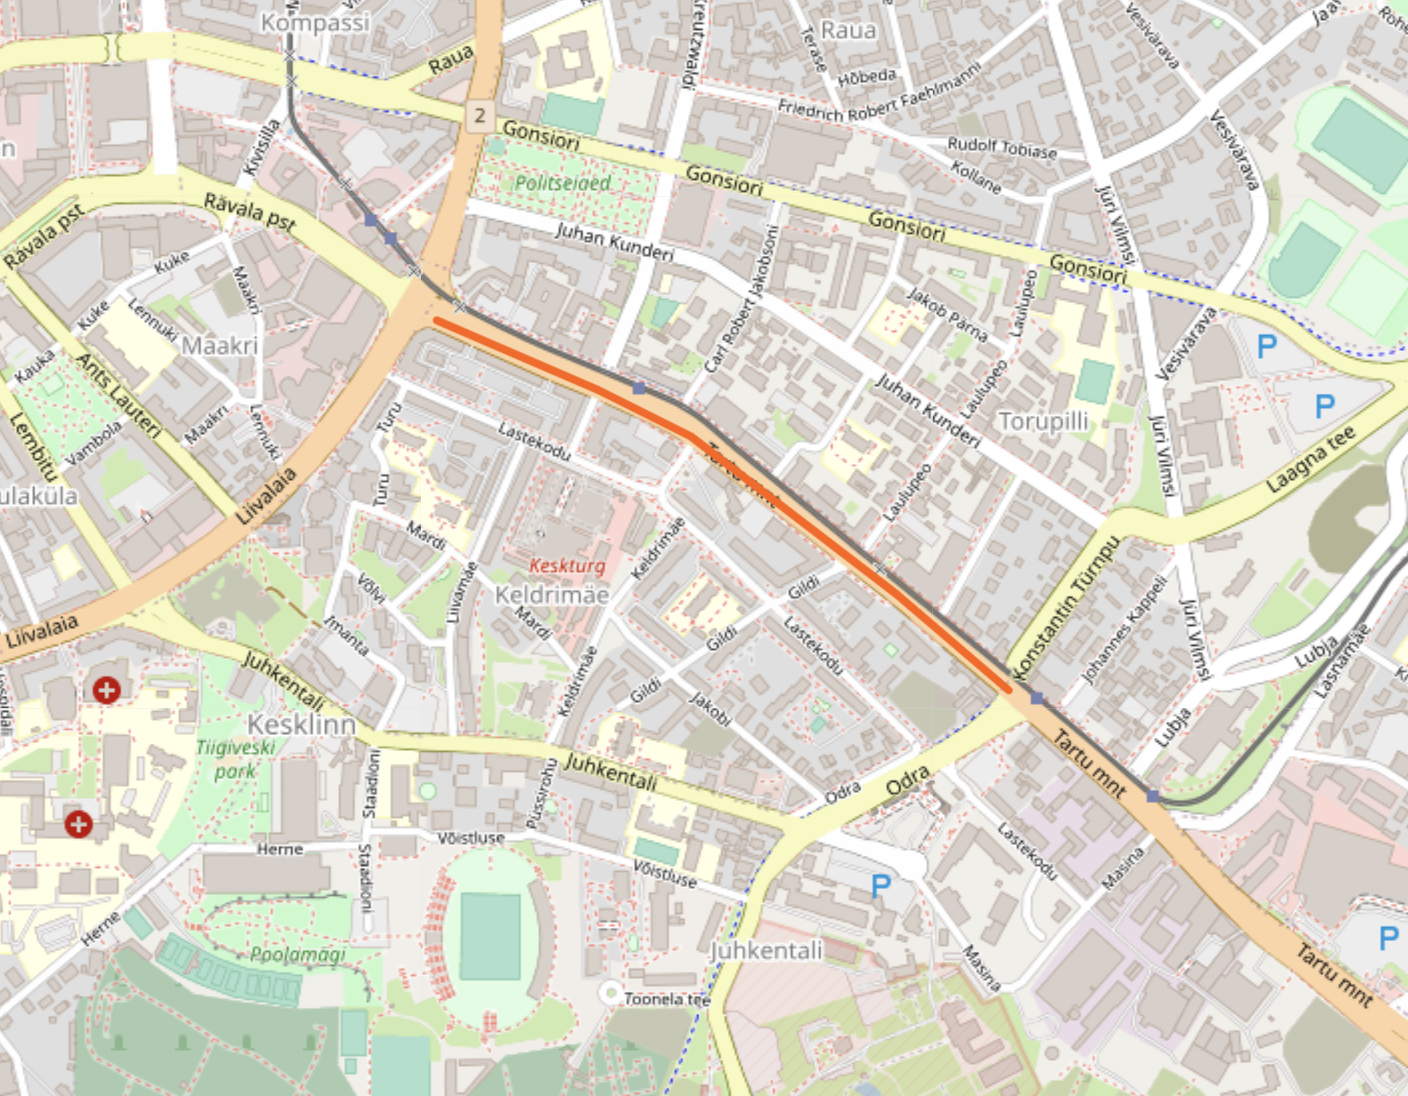
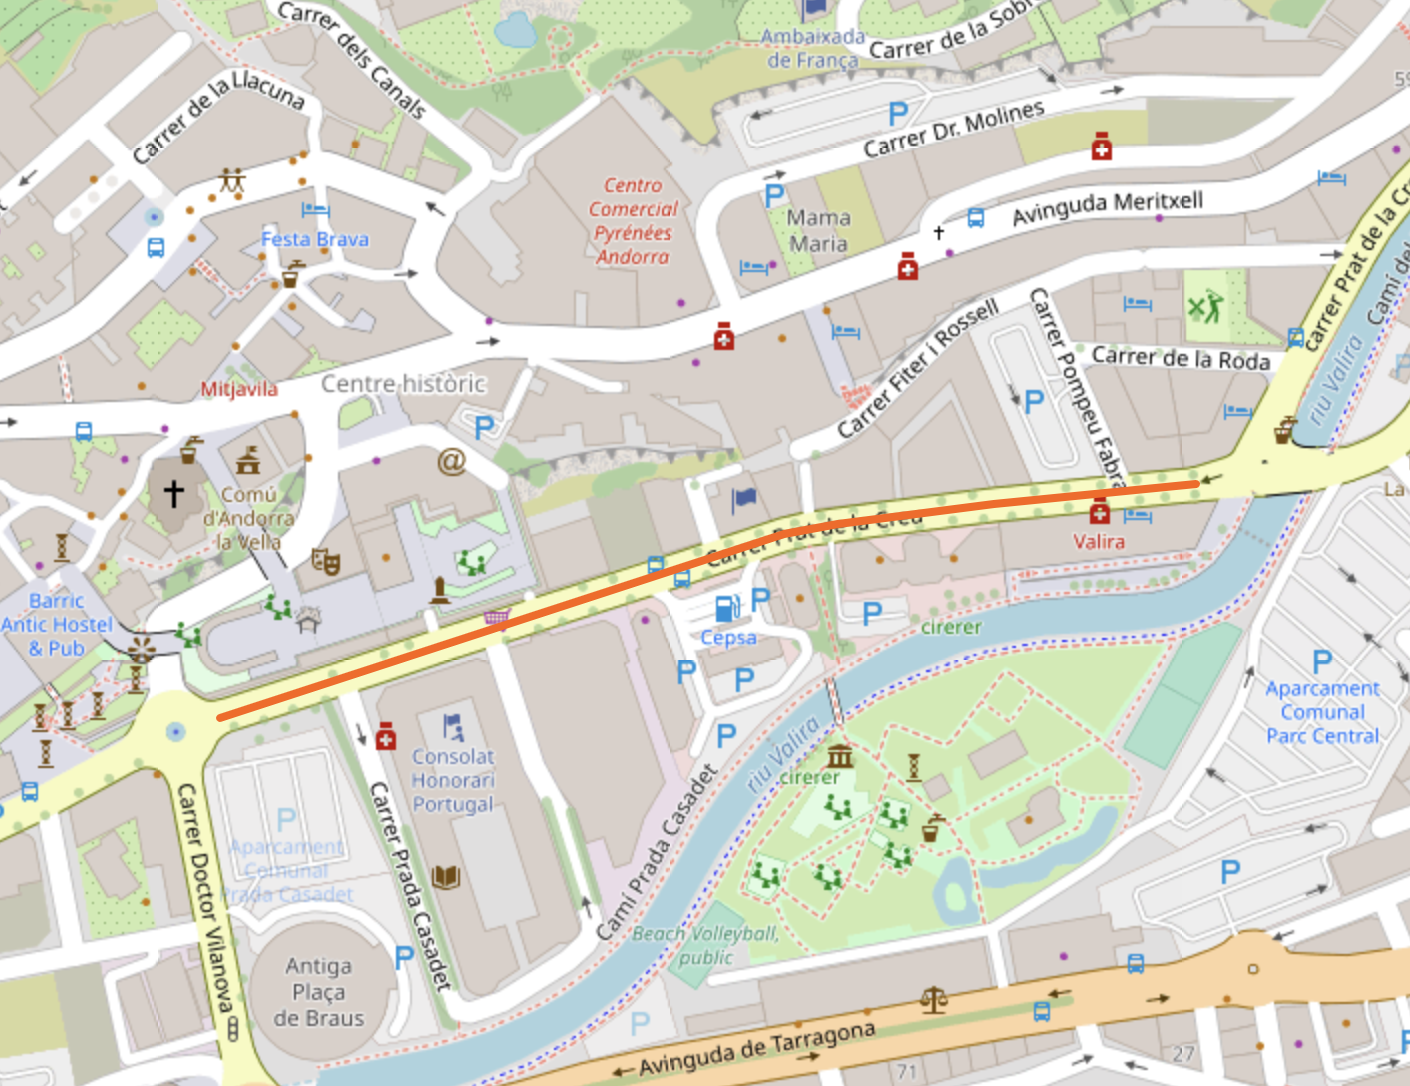
update screenshots

diff --git a/README.md b/README.md
@@ -20,7 +20,7 @@ This has similar interface to existing Valhalla tools and makes use of data stru
 3. Inside the container, start the server ```LD_LIBRARY_PATH=/usr/local/lib valhalla_service /valhalla_tiles/valhalla.json 1```
 4. Verify that Valhalla processed the traffic information correctly, by querying the Valhalla graph edge which we updated (or using the interactive demo in the next step):
 ```
-curl http://localhost:8002/locate --data '{"locations": [{"lat": 42.506709580728085, "lon": 1.523623466491699}], "verbose": true}' | jq
+curl http://localhost:8002/locate --data '{"locations": [{"lat": 42.506709, "lon": 1.523623}], "verbose": true}' | jq
 ```
 One of the ways returned by the query should contain a non-empty `predicted_speeds` array for predicted traffic, and a non-empty `live_speed` object for live traffic. This means that Valhalla has the traffic information available.
 
@@ -51,7 +51,7 @@ Example:
             }      
       ...
 ```
-5. Check interactive demo (uses the locally running instance of Valhalla): https://valhalla.github.io/demos/routing/index-internal.html#loc=15,42.510609,1.534503
+5. Check the  interactive demo (uses the locally running instance of Valhalla): https://valhalla.github.io/demos/routing/index-internal.html#loc=15,42.510609,1.534503
    * __Left click__ to place origin / destination for routing
    * __Right click__ to query node/edge info
 6. Do a live update of the traffic speeds and check how it is picked up automatically:
@@ -66,7 +66,7 @@ Example:
       ```
    * Confirm that live speeds are not available 
       ```
-     curl http://localhost:8002/locate --data '{"locations": [{"lat": 42.506709580728085, "lon": 1.523623466491699}], "verbose": true}' | jq | grep overall_speed
+     curl http://localhost:8002/locate --data '{"locations": [{"lat": 42.506709, "lon": 1.523623}], "verbose": true}' | jq | grep overall_speed
      ```
    * Customize with new values
      ```
@@ -74,12 +74,12 @@ Example:
      ```
    * Check the live speeds again, should be available now
       ```
-     curl http://localhost:8002/locate --data '{"locations": [{"lat": 42.506709580728085, "lon": 1.523623466491699}], "verbose": true}' | jq | grep overall_speed
+     curl http://localhost:8002/locate --data '{"locations": [{"lat": 42.506709, "lon": 1.523623}], "verbose": true}' | jq | grep overall_speed
      ```
 
 ## Predicted traffic Demo
 
-The predicted traffic for the following OSM way is slowed as part of the Dockerfile commands: https://www.openstreetmap.org/way/233161449#map=15/59.4302/24.7748
+The predicted traffic for the following OSM way is slowed as part of the Dockerfile commands: https://www.openstreetmap.org/way/173167308#map=17/42.50676/1.52457
 ![OSM way](screenshots/osm_way.png?raw=true "OSM way")
 
 As live traffic has priority over predicted traffic, make sure all live traffic speeds are set to 0, so they are ignored:
@@ -120,7 +120,7 @@ curl http://localhost:8002/sources_to_targets --data '{"sources":[{"lat":59.431,
 
 ### Isochrone (supports traffic):
 ```
-curl http://localhost:8002/isochrone --data '{"locations":[{"lat":59.431,"lon":24.768}],"costing":"auto","contours":[{"time":5,"color":"ff0000"}],"date_time":{"type":1,"value":"2021-09-30T23:50"}}'
+curl http://localhost:8002/isochrone --data '{"locations":[{"lat": 42.506709, "lon": 1.523623}],"costing":"auto","contours":[{"time":5,"color":"ff0000"}],"date_time":{"type":1,"value":"2021-09-30T23:50"}}'
 ```
 View isochrone: http://geojson.io/
 
